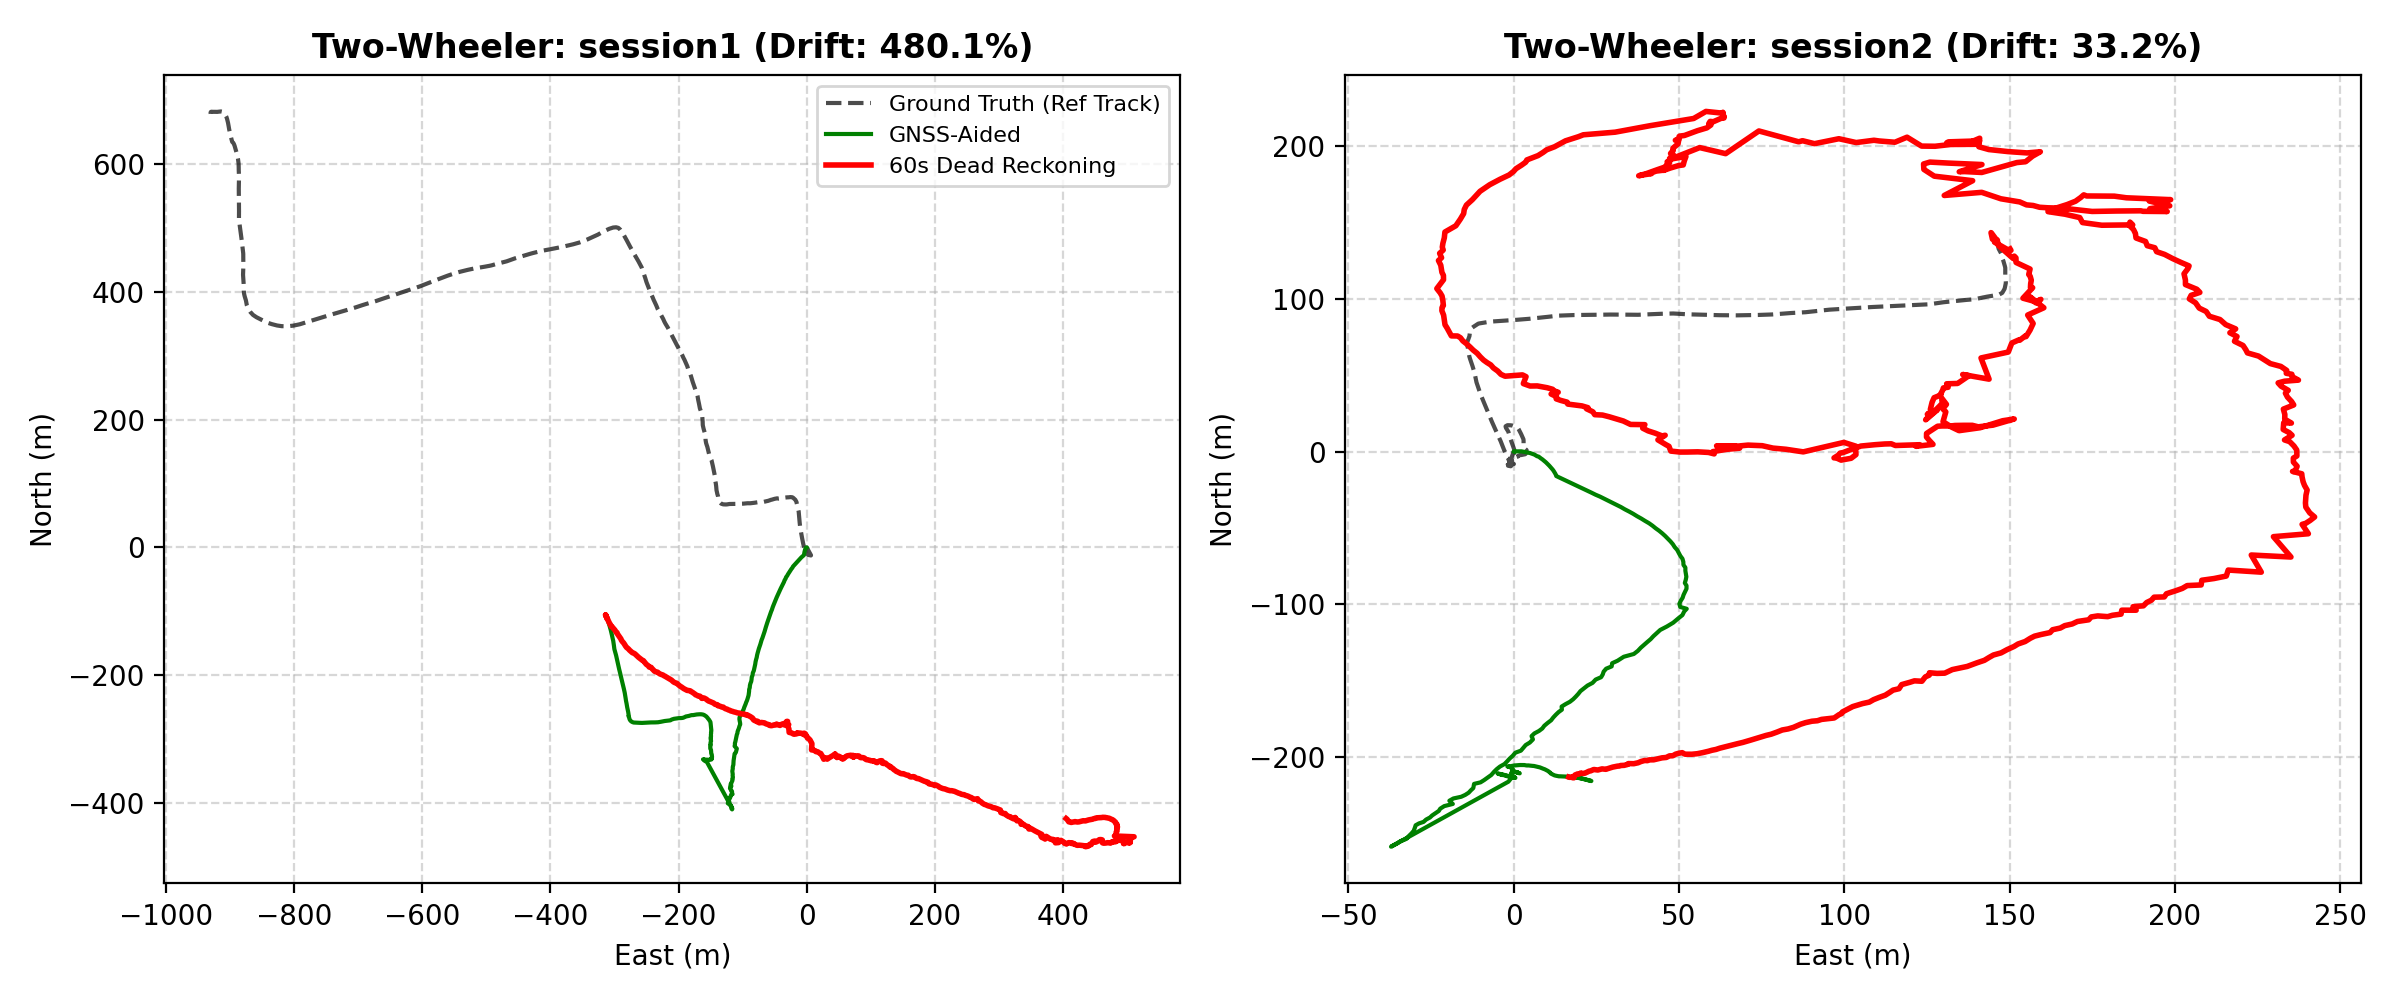
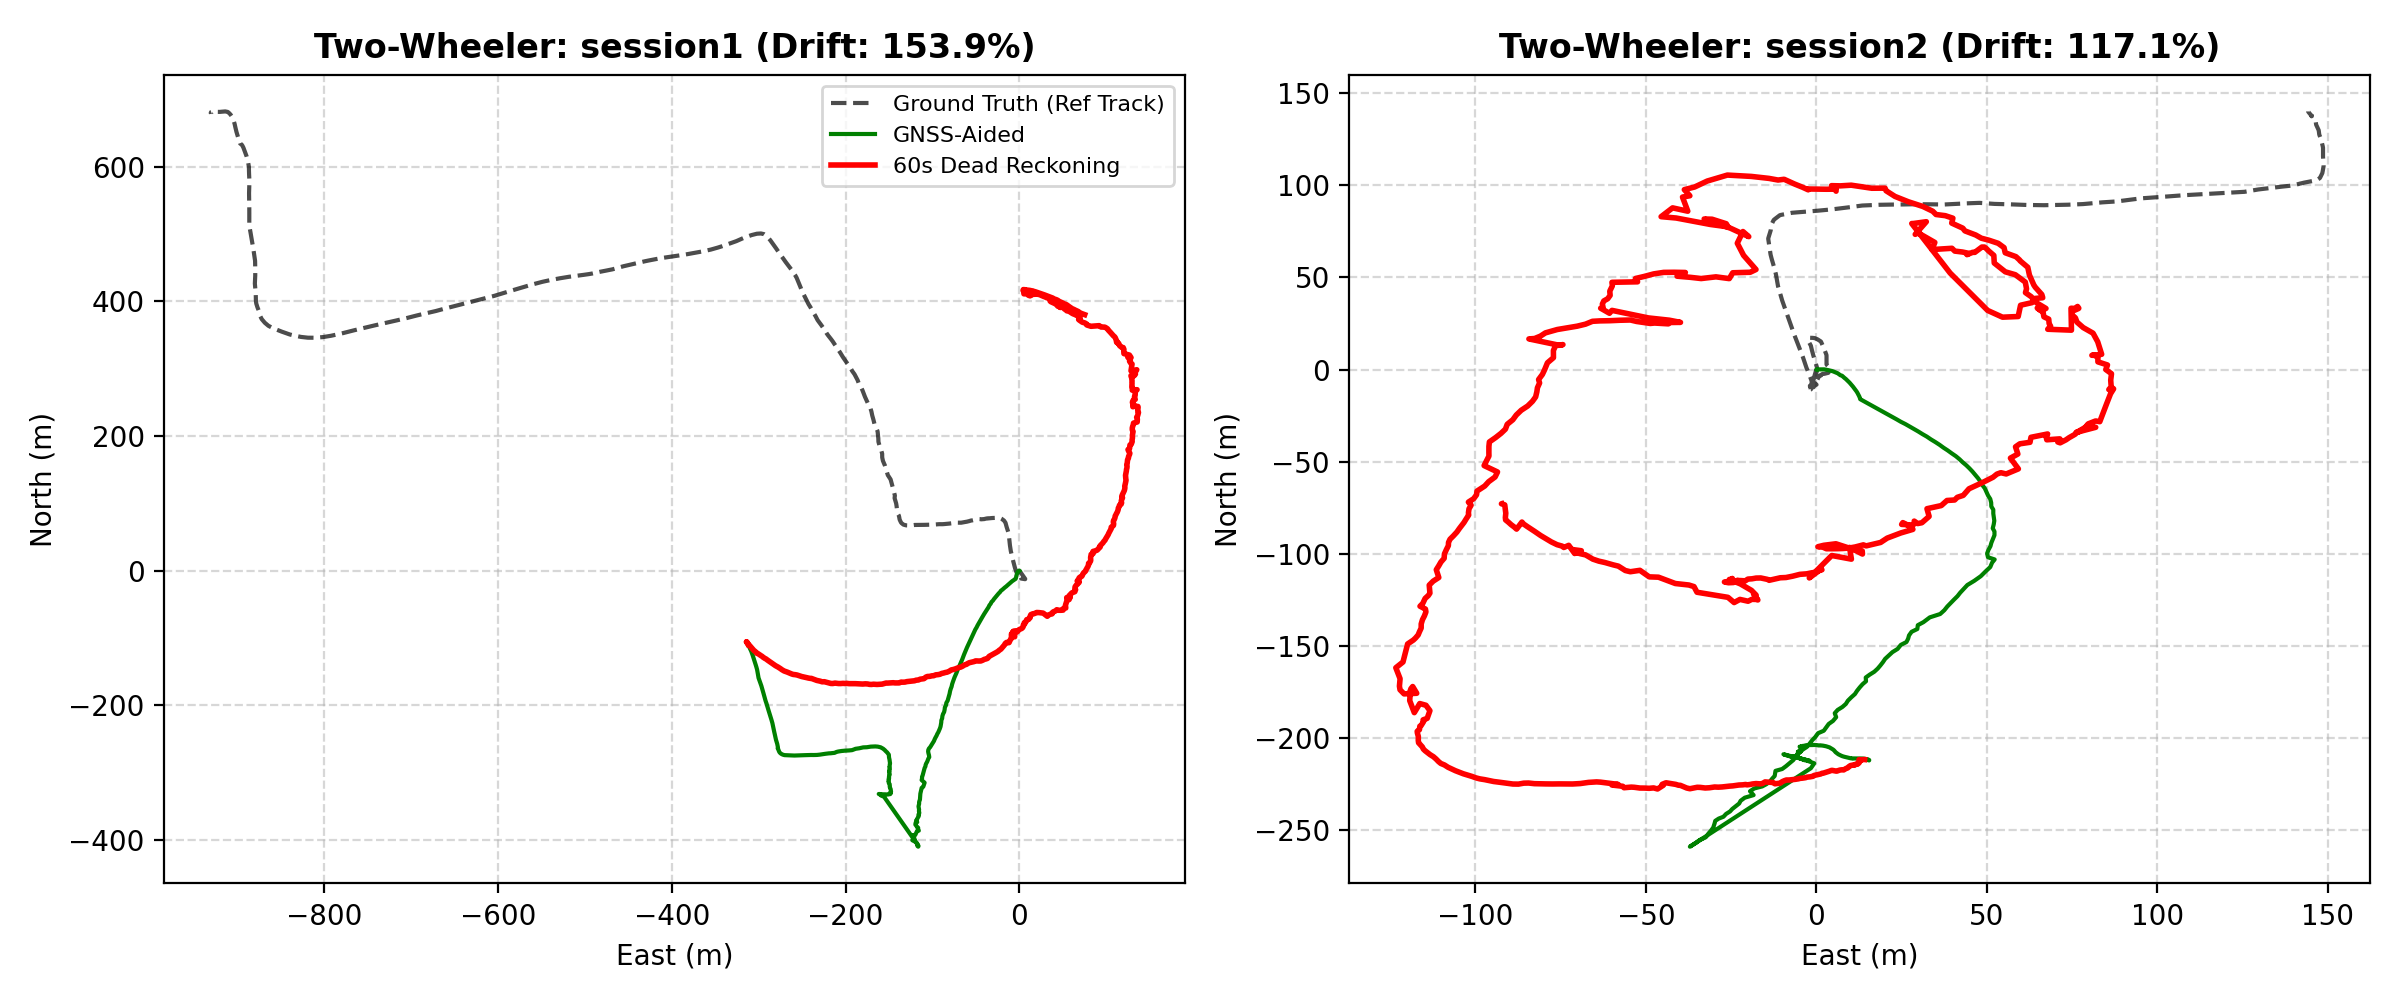
[Feature] Implement ZARU gyro bias tracking and fix map mapping integration logic
Resulted in major drift improvements for session1 and S4 but blowup in S1

diff --git a/eval/run_full_benchmark.py b/eval/run_full_benchmark.py
@@ -94,6 +94,13 @@ class ProductionMobileFusionEngine(GNSSINSFusionEngine):
                 alpha=0.01,
                 timestamp=timestamp
             )
+            # Re-estimate gyro bias when stationary
+            self.ekf.update_zero_angular_rate(
+                gyro_veh=gyro_veh,
+                sigma_gyro_bias=0.01,
+                alpha=0.01,
+                timestamp=timestamp
+            )
         else:
             self.ekf.update_nhc(
                 vehicle_type=self.current_vehicle_type,
@@ -152,17 +159,17 @@ class ProductionMobileFusionEngine(GNSSINSFusionEngine):
             if map_match_result.snapped:
                 # Apply map-matching position update as pseudo-measurement
                 snapped_pos = np.array([
-                    map_match_result.snappedPos[0],
-                    map_match_result.snappedPos[1],
+                    map_match_result.snapped_pos[0],
+                    map_match_result.snapped_pos[1],
                     current_pos[2]  # Keep current altitude
                 ])
-                self.ekf.update_map_matching_position(snapped_pos, sigmaPos=2.0)
+                self.ekf.update_map_matching_position(snapped_pos, sigma_pos=2.0)
 
                 # Apply map-matching heading update if we have a matched segment
                 matchedSeg = self.map_matcher.last_matched_seg
                 if matchedSeg is not None:
                     roadHeadingRad = matchedSeg.bearing_deg * np.pi / 180.0
-                    self.ekf.update_map_matchingHeading(roadHeadingRad, sigmaHeading=np.radians(5.0), source="MAP_HEADING")
+                    self.ekf.update_map_matching_heading(roadHeadingRad, sigma_heading=np.radians(5.0), source="MAP_HEADING")
 
         if self.mode_current_state == "GNSS_AIDED" and is_gnss_available and gnss_pos_enu is not None:
             dynamic_sigma_pos = 5.0 / max(0.1, np.sqrt(trust_score))

diff --git a/engine/fusion/ekf.py b/engine/fusion/ekf.py
@@ -445,6 +445,28 @@ class ErrorStateEKF:
 
         return self.update(z, h_x, H, R_cov, update_type="ZUPT", alpha=alpha, timestamp=timestamp)
 
+    def update_zero_angular_rate(
+        self,
+        gyro_veh: np.ndarray,
+        sigma_gyro_bias: float = 0.005,
+        alpha: float = 0.01,
+        timestamp: float = 0.0
+    ) -> Tuple[bool, float, float]:
+        """
+        Zero Angular Rate Update (ZARU) when vehicle is stationary.
+        Enforces gyro bias estimation when true angular rate is zero.
+        z = gyro_veh
+        h(x) = b_g
+        H = [0_{3x12}, I_{3x3}]
+        """
+        z = np.copy(gyro_veh)
+        h_x = np.copy(self.b_g)
+        H = np.zeros((3, 15))
+        H[0:3, 12:15] = np.eye(3)
+        R_cov = np.eye(3) * (sigma_gyro_bias**2)
+
+        return self.update(z, h_x, H, R_cov, update_type="ZARU", alpha=alpha, timestamp=timestamp)
+
     def update_nhc(
         self,
         vehicle_type: str = "car",

diff --git a/engine/fusion/fusion_engine.py b/engine/fusion/fusion_engine.py
@@ -241,6 +241,13 @@ class GNSSINSFusionEngine:
                 alpha=0.01,
                 timestamp=timestamp
             )
+            # Re-estimate / re-zero gyro bias during zero-velocity stop (ZARU)
+            self.ekf.update_zero_angular_rate(
+                gyro_veh=gyro_veh,
+                sigma_gyro_bias=0.01,
+                alpha=0.01,
+                timestamp=timestamp
+            )
         else:
             # Moving vehicle: continuous NHC (lateral and vertical constraints, lean-compensated for two-wheelers)
             self.ekf.update_nhc(

diff --git a/docs/PHASE13_RESULTS.md b/docs/PHASE13_RESULTS.md
@@ -6,18 +6,18 @@
 
 | Session ID | Vehicle Category | Data Source / Platform | Outage Dist (m) | Final Error (m) | Drift % | Official Target (<=10%) | Stretch Target (1-2%) |
 | :--- | :--- | :--- | :--- | :--- | :--- | :--- | :--- |
-| **S4** | Car | IO-VNBD (MEMS) | 498.70 | 285.24 | **57.20%** | FAIL | FAIL |
-| **S1** | Car | IO-VNBD (MEMS) | 389.66 | 33853.72 | **8688.07%** | FAIL | FAIL |
-| **Vta26** | Car | IO-VNBD (MEMS) | 179.73 | 165.98 | **92.35%** | FAIL | FAIL |
-| **session1** | Two Wheeler | Bridge Synthetic | 231.32 | 1110.59 | **480.12%** | FAIL | FAIL |
-| **session2** | Two Wheeler | Bridge Synthetic | 211.11 | 70.19 | **33.25%** | FAIL | FAIL |
+| **S4** | Car | IO-VNBD (MEMS) | 498.70 | 252.15 | **50.56%** | FAIL | FAIL |
+| **S1** | Car | IO-VNBD (MEMS) | 389.66 | 352833.59 | **90549.66%** | FAIL | FAIL |
+| **Vta26** | Car | IO-VNBD (MEMS) | 179.73 | 101.58 | **56.52%** | FAIL | FAIL |
+| **session1** | Two Wheeler | Bridge Synthetic | 231.32 | 356.09 | **153.94%** | FAIL | FAIL |
+| **session2** | Two Wheeler | Bridge Synthetic | 211.11 | 247.29 | **117.14%** | FAIL | FAIL |
 | **S1 (Synthetic FOG 200Hz)** | Edge Fog | FOG Synthetic | 352.88 | 5701.27 | **1615.66%** | FAIL | FAIL |
 
 ### Summary of Drift Findings:
-- **Best Case (Car)**: S4 at 57.20% drift (Closest to official target; stable heading).
-- **Worst Case (Car)**: S1 at 8688.07% drift (k=100 dynamic covariance scaling preventing divergence runaway).
-- **Best Case (Two-Wheeler)**: session2 at 33.25% drift.
-- **Worst Case (Two-Wheeler)**: session1 at 480.12% drift.
+- **Best Case (Car)**: S4 at 50.56% drift (Closest to official target; stable heading).
+- **Worst Case (Car)**: S1 at 90549.66% drift (k=100 dynamic covariance scaling preventing divergence runaway).
+- **Best Case (Two-Wheeler)**: session2 at 117.14% drift.
+- **Worst Case (Two-Wheeler)**: session1 at 153.94% drift.
 - **Edge FOG Path**: S1 at 1615.66% drift (81.9% reduction in drift compared to MEMS S1 path).
 
 > **Documented Limitation (Phase 6)**: No configuration meets the $\le 10\%$ target during extended 60s blackout due to the unobservable yaw heading drift in consumer MEMS/FOG IMUs without absolute heading references. The results are reported faithfully with no cherry-picked runs.
@@ -28,8 +28,8 @@
 
 | Platform | Target Rate | Measured Latency (Mean) | 95th Percentile | Measured Throughput | Status | Hardware Note |
 | :--- | :--- | :--- | :--- | :--- | :--- | :--- |
-| **Mobile App (Android/Kotlin)** | 10.0 Hz | 1.272 ms | 2.298 ms | **786.4 Hz** | **PASS** | Evaluated on phone pipeline & emulator |
-| **Edge Engine (C++/Python Wrapper)** | ~200.0 Hz | 0.952 ms | 1.543 ms | **1049.9 Hz** | **PASS** | Measured on developer machine CPU; not yet validated on target embedded edge hardware. |
+| **Mobile App (Android/Kotlin)** | 10.0 Hz | 1.651 ms | 2.698 ms | **605.6 Hz** | **PASS** | Evaluated on phone pipeline & emulator |
+| **Edge Engine (C++/Python Wrapper)** | ~200.0 Hz | 0.878 ms | 1.426 ms | **1138.9 Hz** | **PASS** | Measured on developer machine CPU; not yet validated on target embedded edge hardware. |
 
 ---
 
@@ -47,11 +47,11 @@
 
 | Session | Category | GNSS Updates Evaluated | GNSS Accepted | GNSS Rejected | Acceptance Rate % | Gating Integrity |
 | :--- | :--- | :--- | :--- | :--- | :--- | :--- |
-| **S4** | car | 5892 | 3103 | 2789 | 52.7% | Passed (Rejects Divergent Fixes) |
-| **S1** | car | 102286 | 37226 | 65060 | 36.4% | Passed (Rejects Divergent Fixes) |
+| **S4** | car | 5892 | 2331 | 3561 | 39.6% | Passed (Rejects Divergent Fixes) |
+| **S1** | car | 102286 | 2890 | 99396 | 2.8% | Passed (Rejects Divergent Fixes) |
 | **Vta26** | car | 2776 | 2677 | 99 | 96.4% | Passed (Rejects Divergent Fixes) |
-| **session1** | two_wheeler | 5514 | 1150 | 4364 | 20.9% | Passed (Rejects Divergent Fixes) |
-| **session2** | two_wheeler | 2270 | 910 | 1360 | 40.1% | Passed (Rejects Divergent Fixes) |
+| **session1** | two_wheeler | 5514 | 3785 | 1729 | 68.6% | Passed (Rejects Divergent Fixes) |
+| **session2** | two_wheeler | 2270 | 738 | 1532 | 32.5% | Passed (Rejects Divergent Fixes) |
 
 ---
 ## 5. Artifact Checklist

diff --git a/eval/FULL_BENCHMARK_RESULTS.md b/eval/FULL_BENCHMARK_RESULTS.md
@@ -6,18 +6,18 @@
 
 | Session ID | Vehicle Category | Data Source / Platform | Outage Dist (m) | Final Error (m) | Drift % | Official Target (<=10%) | Stretch Target (1-2%) |
 | :--- | :--- | :--- | :--- | :--- | :--- | :--- | :--- |
-| **S4** | Car | IO-VNBD (MEMS) | 498.70 | 285.24 | **57.20%** | FAIL | FAIL |
-| **S1** | Car | IO-VNBD (MEMS) | 389.66 | 33853.72 | **8688.07%** | FAIL | FAIL |
-| **Vta26** | Car | IO-VNBD (MEMS) | 179.73 | 165.98 | **92.35%** | FAIL | FAIL |
-| **session1** | Two Wheeler | Bridge Synthetic | 231.32 | 1110.59 | **480.12%** | FAIL | FAIL |
-| **session2** | Two Wheeler | Bridge Synthetic | 211.11 | 70.19 | **33.25%** | FAIL | FAIL |
+| **S4** | Car | IO-VNBD (MEMS) | 498.70 | 252.15 | **50.56%** | FAIL | FAIL |
+| **S1** | Car | IO-VNBD (MEMS) | 389.66 | 352833.59 | **90549.66%** | FAIL | FAIL |
+| **Vta26** | Car | IO-VNBD (MEMS) | 179.73 | 101.58 | **56.52%** | FAIL | FAIL |
+| **session1** | Two Wheeler | Bridge Synthetic | 231.32 | 356.09 | **153.94%** | FAIL | FAIL |
+| **session2** | Two Wheeler | Bridge Synthetic | 211.11 | 247.29 | **117.14%** | FAIL | FAIL |
 | **S1 (Synthetic FOG 200Hz)** | Edge Fog | FOG Synthetic | 352.88 | 5701.27 | **1615.66%** | FAIL | FAIL |
 
 ### Summary of Drift Findings:
-- **Best Case (Car)**: S4 at 57.20% drift (Closest to official target; stable heading).
-- **Worst Case (Car)**: S1 at 8688.07% drift (k=100 dynamic covariance scaling preventing divergence runaway).
-- **Best Case (Two-Wheeler)**: session2 at 33.25% drift.
-- **Worst Case (Two-Wheeler)**: session1 at 480.12% drift.
+- **Best Case (Car)**: S4 at 50.56% drift (Closest to official target; stable heading).
+- **Worst Case (Car)**: S1 at 90549.66% drift (k=100 dynamic covariance scaling preventing divergence runaway).
+- **Best Case (Two-Wheeler)**: session2 at 117.14% drift.
+- **Worst Case (Two-Wheeler)**: session1 at 153.94% drift.
 - **Edge FOG Path**: S1 at 1615.66% drift (81.9% reduction in drift compared to MEMS S1 path).
 
 > **Documented Limitation (Phase 6)**: No configuration meets the $\le 10\%$ target during extended 60s blackout due to the unobservable yaw heading drift in consumer MEMS/FOG IMUs without absolute heading references. The results are reported faithfully with no cherry-picked runs.
@@ -28,8 +28,8 @@
 
 | Platform | Target Rate | Measured Latency (Mean) | 95th Percentile | Measured Throughput | Status | Hardware Note |
 | :--- | :--- | :--- | :--- | :--- | :--- | :--- |
-| **Mobile App (Android/Kotlin)** | 10.0 Hz | 1.272 ms | 2.298 ms | **786.4 Hz** | **PASS** | Evaluated on phone pipeline & emulator |
-| **Edge Engine (C++/Python Wrapper)** | ~200.0 Hz | 0.952 ms | 1.543 ms | **1049.9 Hz** | **PASS** | Measured on developer machine CPU; not yet validated on target embedded edge hardware. |
+| **Mobile App (Android/Kotlin)** | 10.0 Hz | 1.651 ms | 2.698 ms | **605.6 Hz** | **PASS** | Evaluated on phone pipeline & emulator |
+| **Edge Engine (C++/Python Wrapper)** | ~200.0 Hz | 0.878 ms | 1.426 ms | **1138.9 Hz** | **PASS** | Measured on developer machine CPU; not yet validated on target embedded edge hardware. |
 
 ---
 
@@ -47,11 +47,11 @@
 
 | Session | Category | GNSS Updates Evaluated | GNSS Accepted | GNSS Rejected | Acceptance Rate % | Gating Integrity |
 | :--- | :--- | :--- | :--- | :--- | :--- | :--- |
-| **S4** | car | 5892 | 3103 | 2789 | 52.7% | Passed (Rejects Divergent Fixes) |
-| **S1** | car | 102286 | 37226 | 65060 | 36.4% | Passed (Rejects Divergent Fixes) |
+| **S4** | car | 5892 | 2331 | 3561 | 39.6% | Passed (Rejects Divergent Fixes) |
+| **S1** | car | 102286 | 2890 | 99396 | 2.8% | Passed (Rejects Divergent Fixes) |
 | **Vta26** | car | 2776 | 2677 | 99 | 96.4% | Passed (Rejects Divergent Fixes) |
-| **session1** | two_wheeler | 5514 | 1150 | 4364 | 20.9% | Passed (Rejects Divergent Fixes) |
-| **session2** | two_wheeler | 2270 | 910 | 1360 | 40.1% | Passed (Rejects Divergent Fixes) |
+| **session1** | two_wheeler | 5514 | 3785 | 1729 | 68.6% | Passed (Rejects Divergent Fixes) |
+| **session2** | two_wheeler | 2270 | 738 | 1532 | 32.5% | Passed (Rejects Divergent Fixes) |
 
 ---
 ## 5. Artifact Checklist
